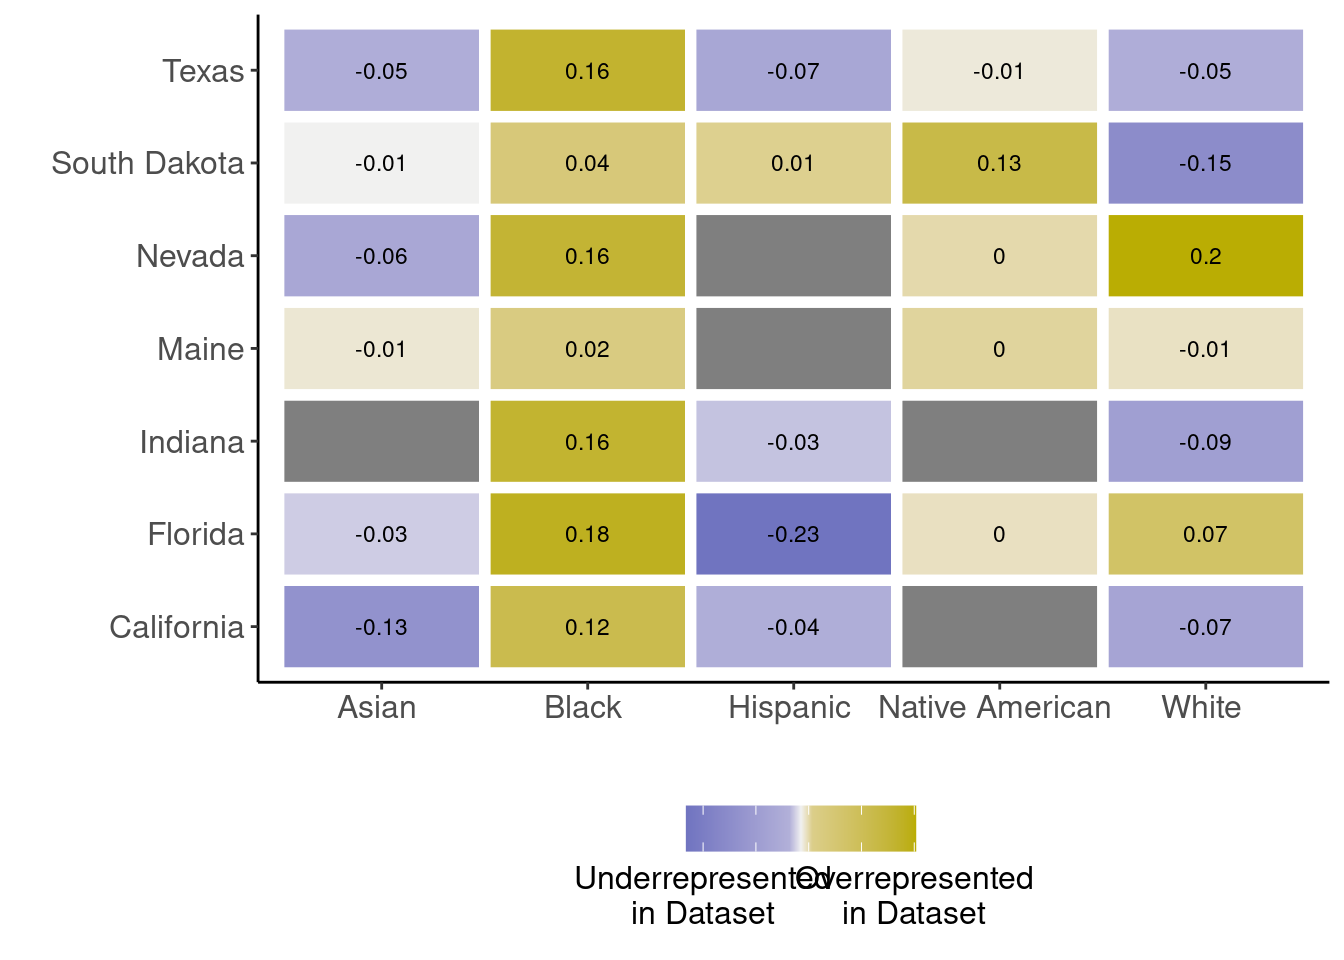
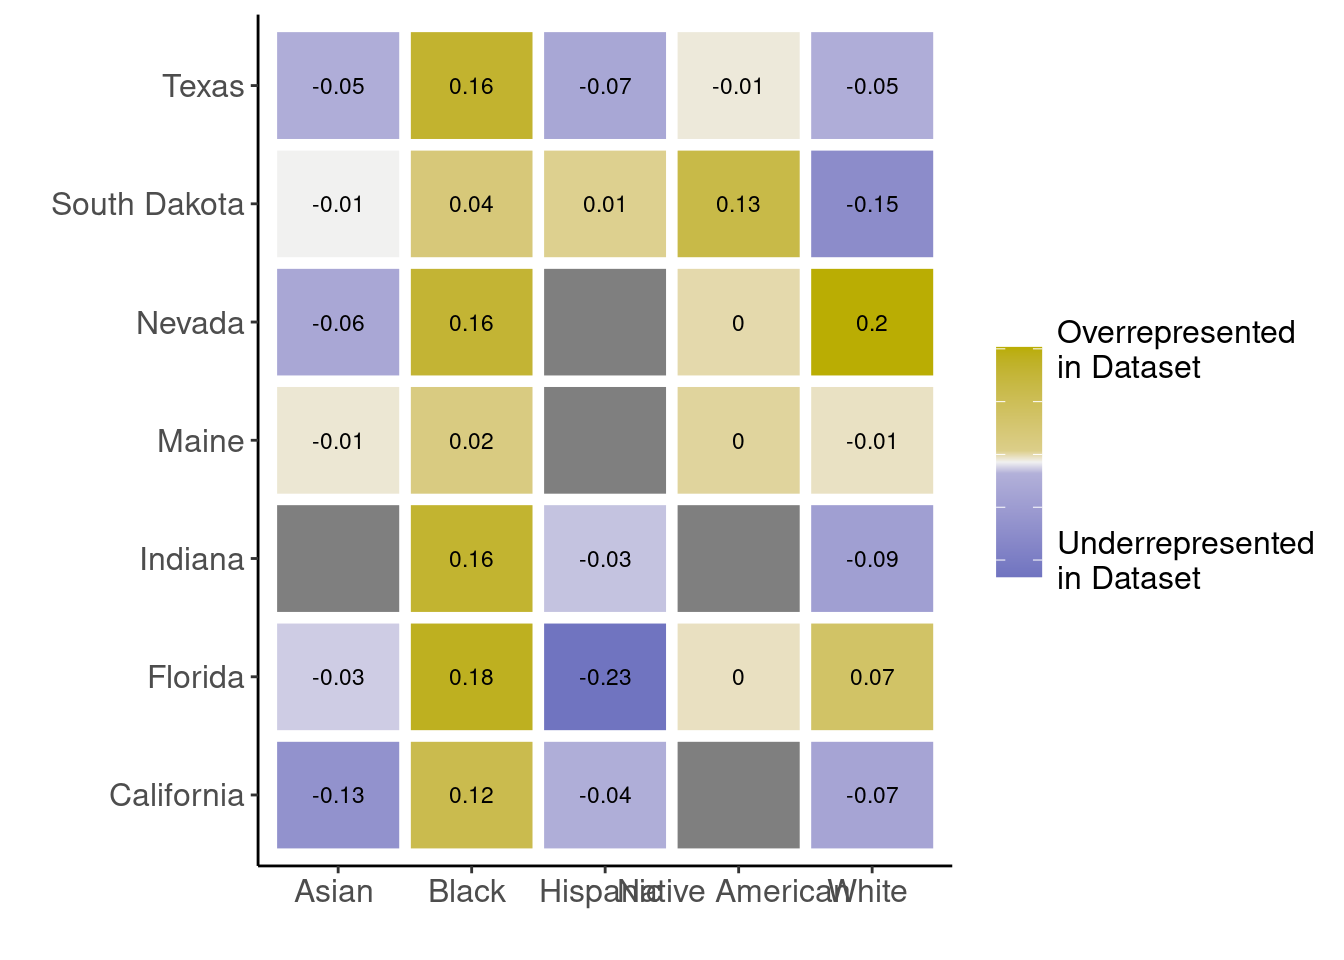
Build site.

diff --git a/docs/tasks.html b/docs/tasks.html
@@ -515,16 +515,16 @@ data/df_flavor.csv
 <div class="panel panel-default">
 <div class="panel-heading">
 <p class="panel-title">
-<a data-toggle="collapse" data-parent="#workflowr-checks" href="#strongRepositoryversionstrongahrefhttpsgithubcomhcvwinterviewtree3047137a0a962c398b0d8a68079a930589748687targetblank3047137a"> <span class="glyphicon glyphicon-ok text-success" aria-hidden="true"></span> <strong>Repository version:</strong> <a href="https://github.com/hcvw/interview/tree/3047137a0a962c398b0d8a68079a930589748687" target="_blank">3047137</a> </a>
+<a data-toggle="collapse" data-parent="#workflowr-checks" href="#strongRepositoryversionstrongahrefhttpsgithubcomhcvwinterviewtree7a11c10feb6b6b6f7646603d1a9ec7f087882e94targetblank7a11c10a"> <span class="glyphicon glyphicon-ok text-success" aria-hidden="true"></span> <strong>Repository version:</strong> <a href="https://github.com/hcvw/interview/tree/7a11c10feb6b6b6f7646603d1a9ec7f087882e94" target="_blank">7a11c10</a> </a>
 </p>
 </div>
[2 lines of base64/hex data omitted]
 <div class="panel-body">
 <p>
 Great! You are using Git for version control. Tracking code development and connecting the code version to the results is critical for reproducibility.
 </p>
 <p>
-The results in this page were generated with repository version <a href="https://github.com/hcvw/interview/tree/3047137a0a962c398b0d8a68079a930589748687" target="_blank">3047137</a>. See the <em>Past versions</em> tab to see a history of the changes made to the R Markdown and HTML files.
+The results in this page were generated with repository version <a href="https://github.com/hcvw/interview/tree/7a11c10feb6b6b6f7646603d1a9ec7f087882e94" target="_blank">7a11c10</a>. See the <em>Past versions</em> tab to see a history of the changes made to the R Markdown and HTML files.
 </p>
 <p>
 Note that you need to be careful to ensure that all relevant files for the analysis have been committed to Git prior to generating the results (you can use <code>wflow_publish</code> or <code>wflow_git_commit</code>). workflowr only checks the R Markdown file, but you know if there are other scripts or data files that it depends on. Below is the status of the Git repository when the results were generated:
@@ -572,6 +572,40 @@ Message
 </tr>
 </thead>
 <tbody>
+<tr>
+<td>
+Rmd
+</td>
+<td>
+<a href="https://github.com/hcvw/interview/blob/7a11c10feb6b6b6f7646603d1a9ec7f087882e94/analysis/tasks.rmd" target="_blank">7a11c10</a>
+</td>
+<td>
+Hannah Van Wyk
+</td>
+<td>
+2024-03-02
+</td>
+<td>
+Start my new project
+</td>
+</tr>
+<tr>
+<td>
+html
+</td>
+<td>
+<a href="https://rawcdn.githack.com/hcvw/interview/41480b1ae43ab5147d3922d42019ad457ad83cee/docs/tasks.html" target="_blank">41480b1</a>
+</td>
+<td>
+Hannah Van Wyk
+</td>
+<td>
+2024-03-02
+</td>
+<td>
+Build site.
+</td>
+</tr>
 <tr>
 <td>
 Rmd
@@ -1608,7 +1642,7 @@ merged_data &lt;- database_data %&gt;%
   theme_classic() +
   labs(fill=&#39;&#39;) +
   xlab(c(&quot;&quot;))+ ylab(c(&quot;&quot;)) +
-  theme(axis.text=element_text(size=12),legend.text=element_text(size=12),legend.position=&quot;bottom&quot;)</code></pre>
+  theme(axis.text=element_text(size=12),legend.text=element_text(size=12),legend.position=&quot;right&quot;)</code></pre>
 <p><img src="figure/tasks.rmd/cars-plot-1.png" width="500px" height="300px" style="display: block; margin: auto;" /></p>
 <p>
 <button type="button" class="btn btn-default btn-xs btn-workflowr btn-workflowr-fig" data-toggle="collapse" data-target="#fig-cars-plot-1">
@@ -1632,6 +1666,17 @@ Date
 </tr>
 </thead>
 <tbody>
+<tr>
+<td>
+<a href="https://github.com/hcvw/interview/blob/41480b1ae43ab5147d3922d42019ad457ad83cee/docs/figure/tasks.rmd/cars-plot-1.png" target="_blank">41480b1</a>
+</td>
+<td>
+Hannah Van Wyk
+</td>
+<td>
+2024-03-02
+</td>
+</tr>
 <tr>
 <td>
 <a href="https://github.com/hcvw/interview/blob/c4fa9807fe8c965556047dc9ca6fc1b6b24b887f/docs/figure/tasks.rmd/cars-plot-1.png" target="_blank">c4fa980</a>
@@ -1852,7 +1897,7 @@ for (flavor in unique(flavor_long$Attribute)) {
 }</code></pre>
 <pre class="r"><code>print(xtable(results),include.rownames=FALSE, type = &quot;html&quot;)</code></pre>
 <!-- html table generated in R 4.3.1 by xtable 1.8-4 package -->
-<!-- Sat Mar  2 14:42:20 2024 -->
+<!-- Sat Mar  2 14:43:19 2024 -->
 <table border="1">
 <tr>
 <th>
